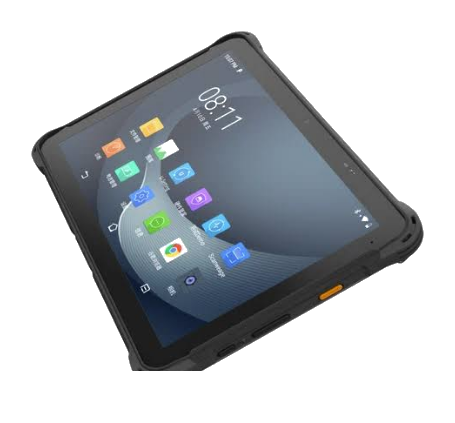
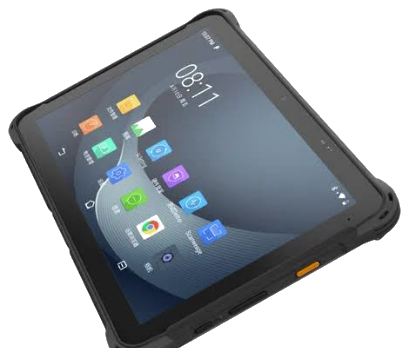
Crop P8100P photo flush to frame and fit its card

diff --git a/src/components/ProductDetailPage.tsx b/src/components/ProductDetailPage.tsx
@@ -28,7 +28,7 @@ export function ProductDetailPage({ slug }: { slug: string }) {
     <main className="product-detail">
       <a className="product-detail-back" href={`/produkti#${category.id}`}><ArrowLeft size={16} /> {labels.back}</a>
       <div className="product-detail-grid">
-        <div className="product-detail-image">
+        <div className={`product-detail-image ${product.cropBottom ? "is-cropped-bottom" : ""}`}>
           {product.image && <img src={product.image} alt={product.name} />}
         </div>
         <div className="product-detail-info">
@@ -49,7 +49,7 @@ export function ProductDetailPage({ slug }: { slug: string }) {
           <div className="hardware-products-grid">
             {related.map((item) => (
               <a key={item.id} className="hardware-product-card" href={`/produkti/${item.id}`}>
-                <div className="hardware-product-image">{item.image && <img src={item.image} alt={item.name} loading="lazy" />}</div>
+                <div className={`hardware-product-image ${item.cropBottom ? "is-cropped-bottom" : ""}`}>{item.image && <img src={item.image} alt={item.name} loading="lazy" />}</div>
                 <div className="hardware-product-info"><h3 className="hardware-product-name">{item.name}</h3></div>
               </a>
             ))}

diff --git a/src/index.css b/src/index.css
@@ -2915,3 +2915,23 @@ a.hardware-product-card:hover {
 .nav--open .nav-burger span:nth-child(2) { opacity: 0; }
 .nav--open .nav-burger span:nth-child(3) { transform: translateY(-7px) rotate(-45deg); }
 .nav-burger span { transition: transform 0.2s ease, opacity 0.2s ease; }
+
+/* Photos cut at the bottom sit flush with the frame so the crop looks intentional */
+.hardware-product-image.is-cropped-bottom {
+  height: auto;
+}
+
+.hardware-product-image.is-cropped-bottom img {
+  height: auto;
+  padding: 16px 20px 0;
+}
+
+.product-detail-image.is-cropped-bottom {
+  padding-bottom: 0;
+  place-items: end center;
+}
+
+.product-detail-image.is-cropped-bottom img {
+  max-height: 360px;
+  object-position: center bottom;
+}

diff --git a/src/components/HardwareProducts.tsx b/src/components/HardwareProducts.tsx
@@ -21,7 +21,7 @@ export function HardwareProducts() {
             <div className="hardware-products-grid">
               {category.products.map((product) => (
                 <a key={product.id} className="hardware-product-card" href={`/produkti/${product.id}`}>
-                  <div className="hardware-product-image">
+                  <div className={`hardware-product-image ${product.cropBottom ? "is-cropped-bottom" : ""}`}>
                     {product.image ? (
                       <img src={product.image} alt={product.name} loading="lazy" />
                     ) : (

diff --git a/src/data/hardware.ts b/src/data/hardware.ts
@@ -5,6 +5,8 @@ export type HardwareProduct = {
   name: string
   description: string
   image?: string
+  // Source photo is cut at the bottom edge, so the card sits it flush against the frame
+  cropBottom?: boolean
 }
 
 export type HardwareCategoryData = {
@@ -124,7 +126,8 @@ export const hardwareCategories: HardwareCategoryData[] = [
         id: "p8100p",
         name: "P8100P",
         description: "2D, 10\", a13, 4/64, WiFi, 4G, 10000mAH, cable, PSU(EU), X strap.",
-        image: "/p8100p.png"
+        image: "/p8100p.png",
+        cropBottom: true
       }
     ]
   }
